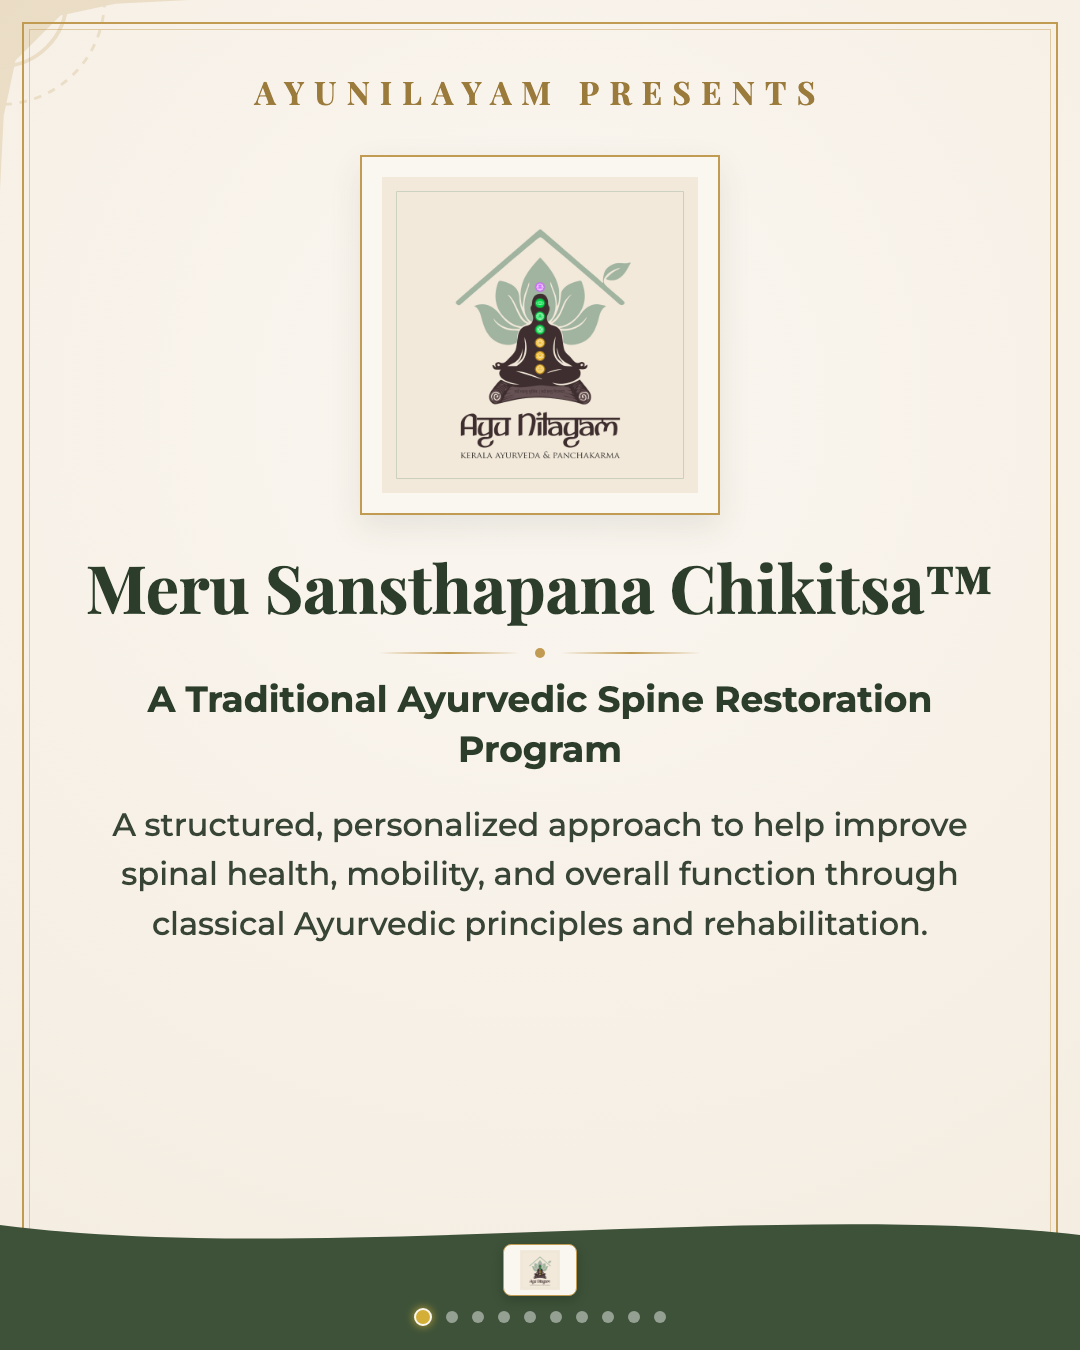
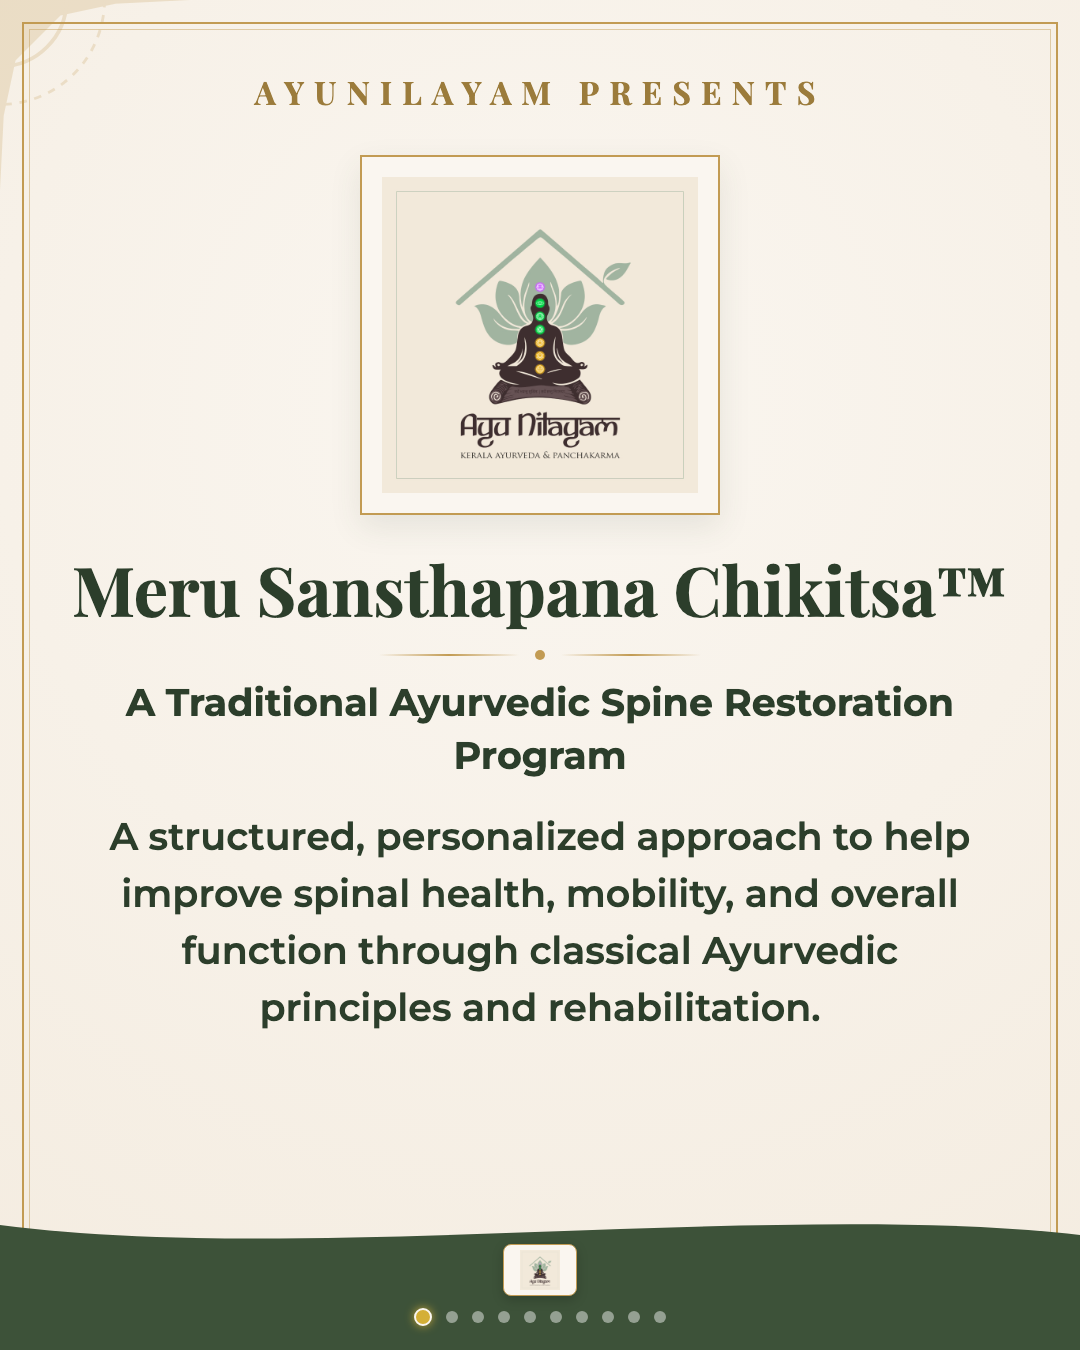
Increase description text size on Slide 1 (Cover) to 38px semi-bold

Changed region(s): [[0.0917, 0.4978, 0.9167, 0.7778], [0.0611, 0.4044, 0.9472, 0.4667]]

diff --git a/html/slides.html b/html/slides.html
@@ -431,7 +431,7 @@
   </symbol>
 </svg>
 
-<!-- SLIDE 1: COVER -->
+<!-- SLIDE 1: COVER (INCREASED DESCRIPTION TEXT SIZE TO 38px & WEIGHT 600) -->
 <div class="slide" id="slide-1">
   <div class="slide-frame"></div>
   <svg class="sun-motif"><use href="#sun-shape"/></svg>
@@ -443,7 +443,7 @@
       <img src="../logo.jpeg" alt="Ayunilayam Logo">
     </div>
 
-    <h1 class="slide-title" style="font-size: 66px;">Meru Sansthapana Chikitsa™</h1>
+    <h1 class="slide-title" style="font-size: 68px;">Meru Sansthapana Chikitsa™</h1>
     
     <div class="title-divider">
       <div class="line"></div>
@@ -451,11 +451,11 @@
       <div class="line"></div>
     </div>
 
-    <div class="slide-subtitle" style="font-weight: 700; color: #2C3E2B; font-size: 36px; margin-bottom: 25px;">
+    <div class="slide-subtitle" style="font-weight: 700; color: #2C3E2B; font-size: 38px; margin-bottom: 25px;">
       A Traditional Ayurvedic Spine Restoration Program
     </div>
 
-    <div class="focused-description" style="font-size: 32px; max-width: 920px;">
+    <div class="focused-description" style="font-size: 38px; font-weight: 600; line-height: 1.5; color: #2C3E2B; max-width: 940px;">
       A structured, personalized approach to help improve spinal health, mobility, and overall function through classical Ayurvedic principles and rehabilitation.
     </div>
   </div>
@@ -478,7 +478,7 @@
 </div>
 
 
-<!-- SLIDE 2: STEP 1 - DETAILED ASSESSMENT (PERFECT FIT ABOVE WAVE) -->
+<!-- SLIDE 2: STEP 1 - DETAILED ASSESSMENT -->
 <div class="slide" id="slide-2">
   <div class="slide-frame"></div>
   <div class="top-right-logo"><img src="../logo.jpeg" alt="Logo"></div>
@@ -495,7 +495,6 @@
 
     <div class="slide-subtitle">Every treatment begins with understanding your unique condition.</div>
 
-    <!-- PHOTO HEIGHT 510px: LARGE PHOTO + ZERO GAP + PERFECT WAVE CLEARANCE -->
     <div class="photo-frame" style="height: 510px;">
       <img src="../extracted_photos/clean_photo_02.png" alt="Assessment Photo">
     </div>
@@ -729,7 +728,7 @@
 </div>
 
 
-<!-- SLIDE 8: RECOVERY PRECAUTIONS (PHOTO HEIGHT 470px: 4 BULLETS FIT PERFECTLY WITH ZERO OVERLAP & ZERO GAP) -->
+<!-- SLIDE 8: RECOVERY PRECAUTIONS -->
 <div class="slide" id="slide-8">
   <div class="slide-frame"></div>
   <div class="top-right-logo"><img src="../logo.jpeg" alt="Logo"></div>
@@ -746,7 +745,6 @@
 
     <div class="slide-subtitle" style="margin-bottom: 12px;">Essential precautions for smooth, lasting healing:</div>
 
-    <!-- PHOTO HEIGHT 470px: FILLS GAP BEAUTIFULLY WHILE 4 BULLETS STAY 100% CLEAR OF WAVE -->
     <div class="photo-frame" style="height: 470px;">
       <img src="../extracted_photos/clean_photo_08.png" alt="Recovery Care Photo">
     </div>
